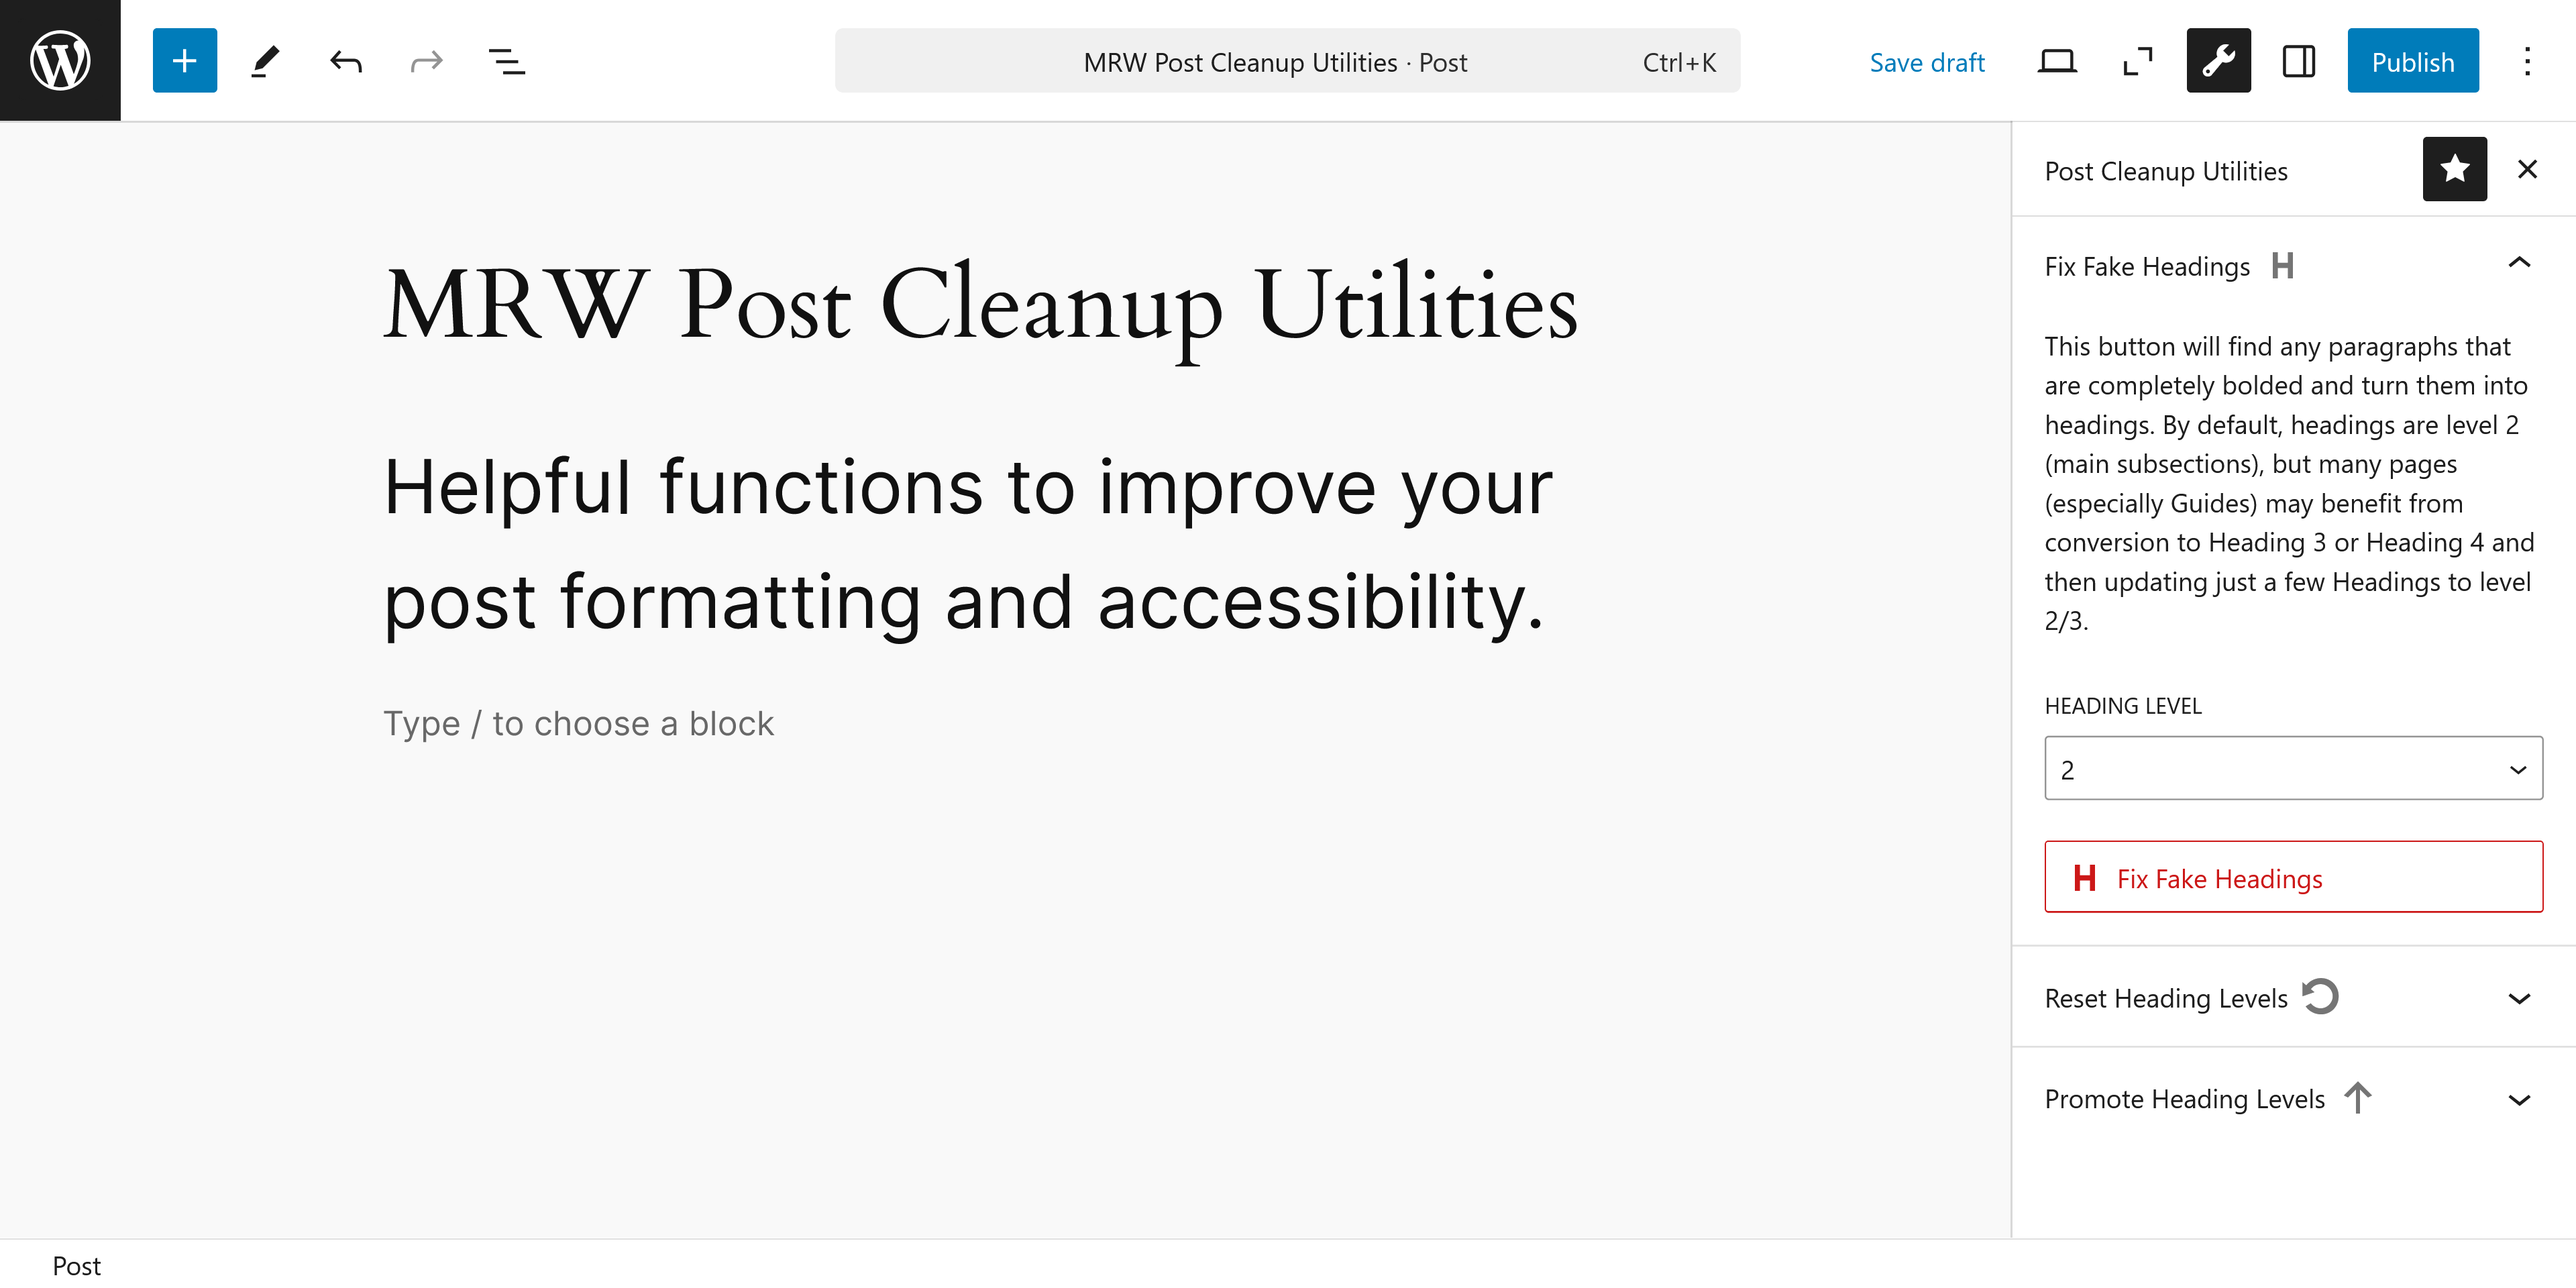
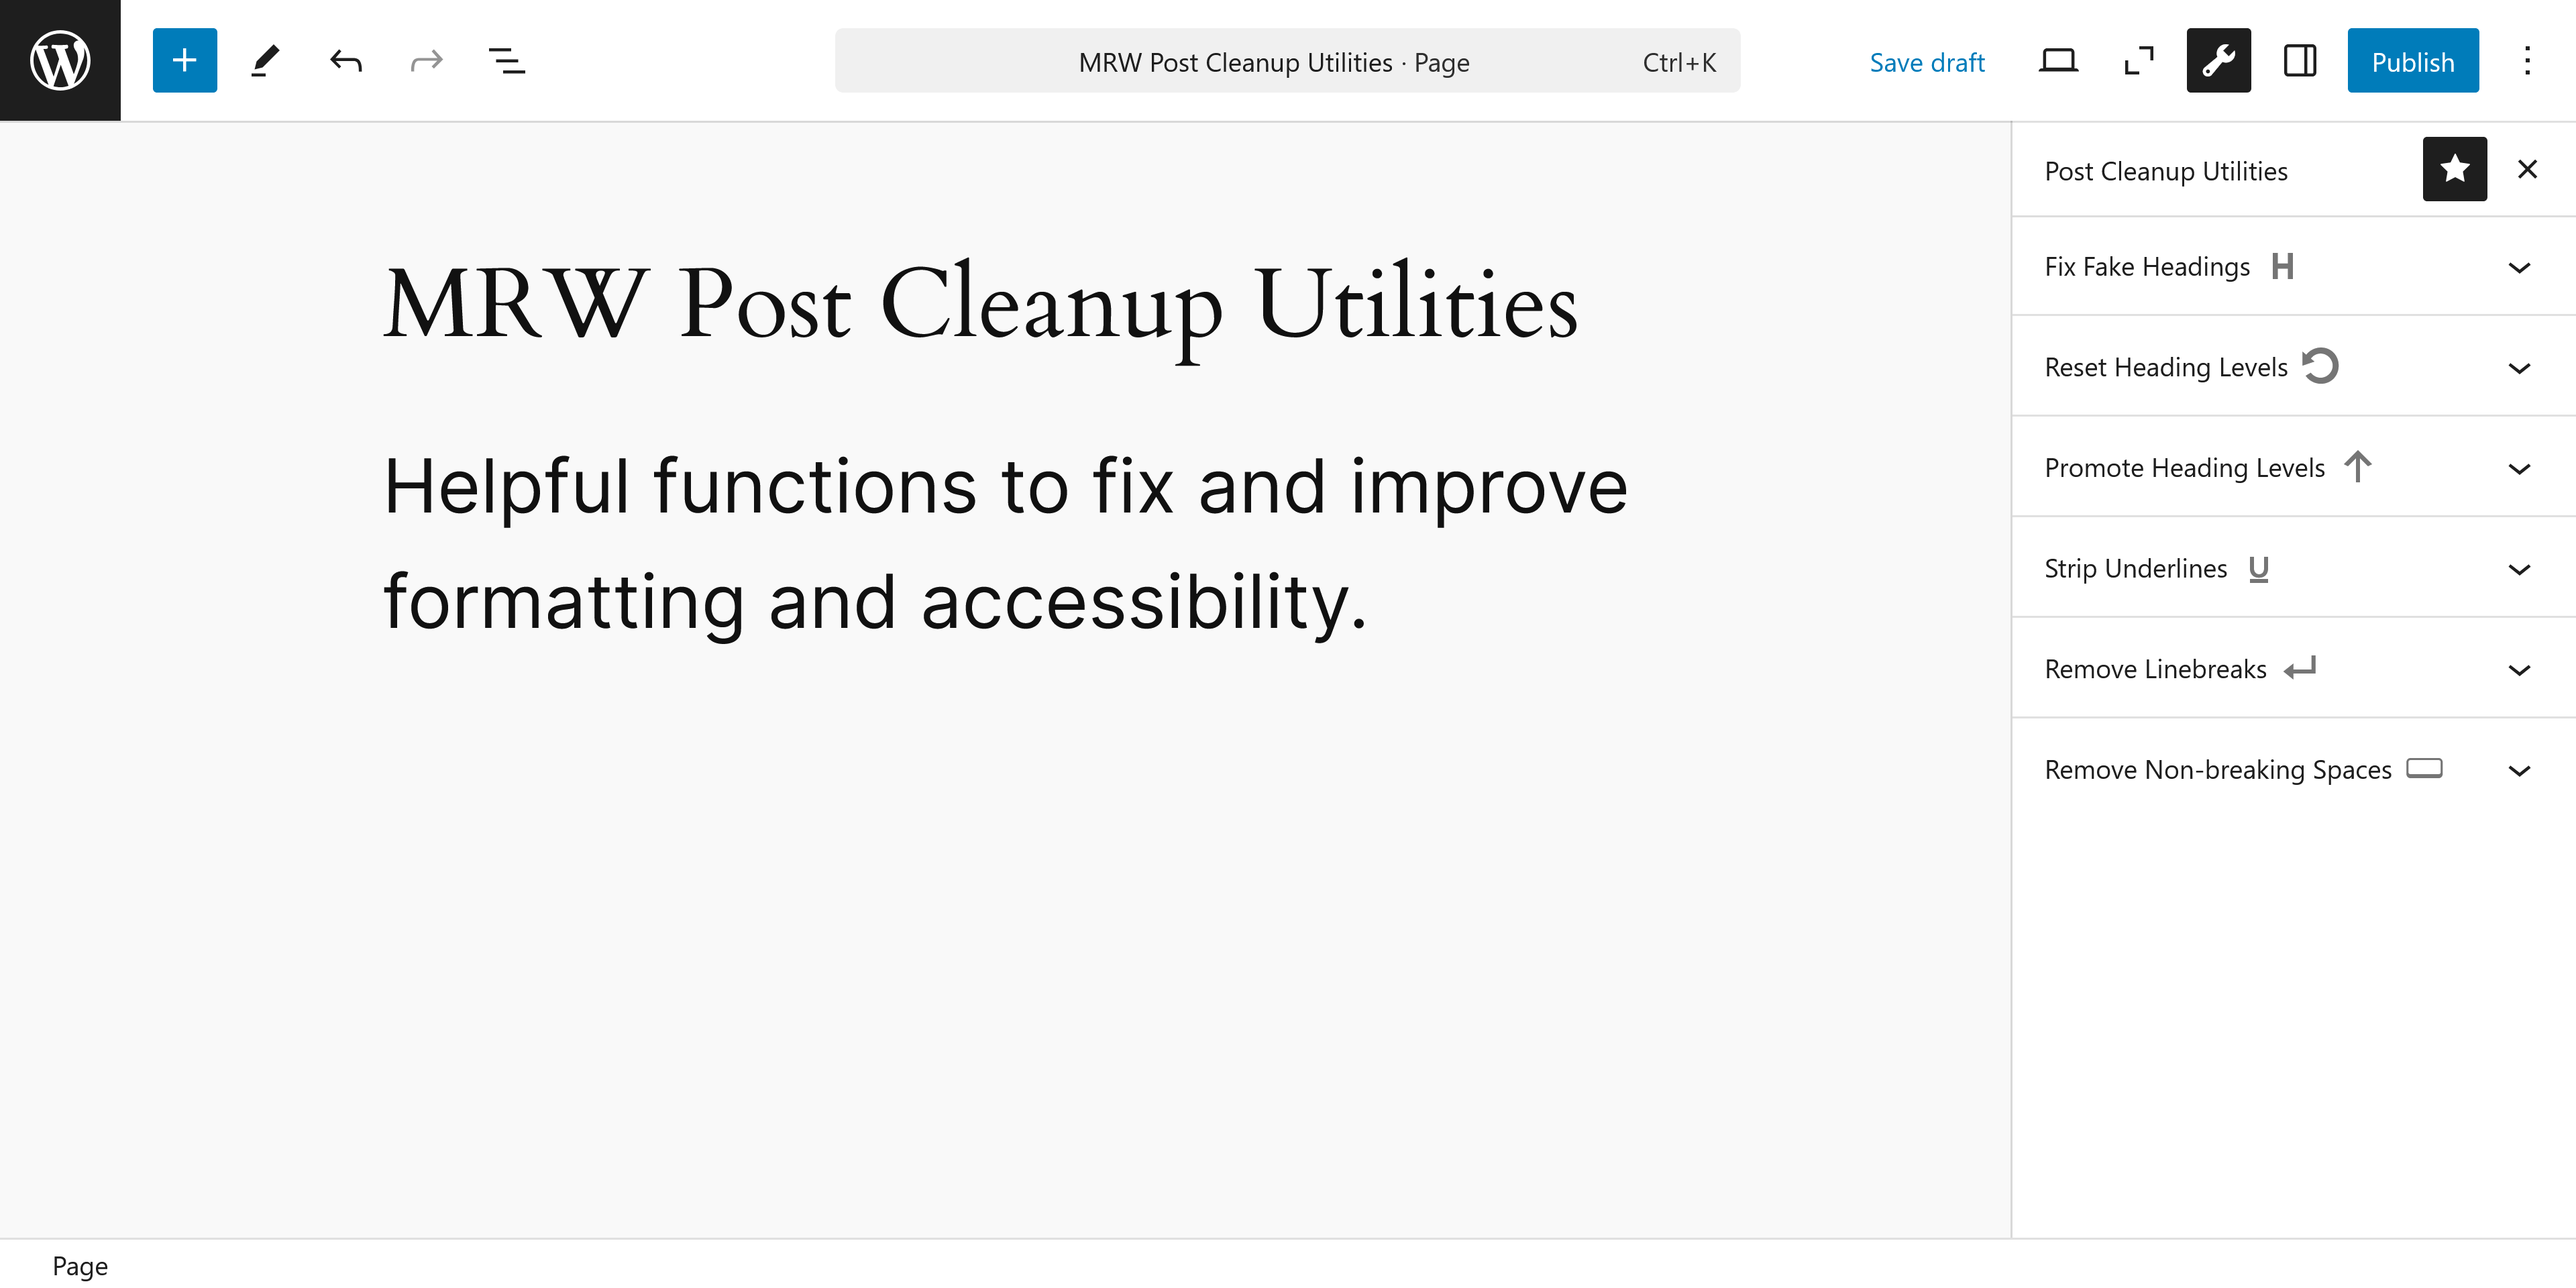
update screenshot

diff --git a/README.md b/README.md
@@ -4,7 +4,7 @@ Mark Root-Wiley, [MRW Web Design](https://MRWweb.com)
 
 A WordPress plugin that helps clean up posts with poor formatting.
 
-![The custom sidebar with the first tool's panel expanded to show the "Fix Fake Headings" button](https://github.com/mrwweb/mrw-post-cleanup-utilities/blob/main/assets/cleanup-utilities-screenshot.png?raw=true)
+![The Post Cleanup Utilities sidebar is visible in the WordPress post editor, showing features such as Fix Fake Headings and Strip Underlines](https://github.com/mrwweb/mrw-post-cleanup-utilities/blob/main/assets/cleanup-utilities-screenshot.png?raw=true)
 
 ## Features
 
